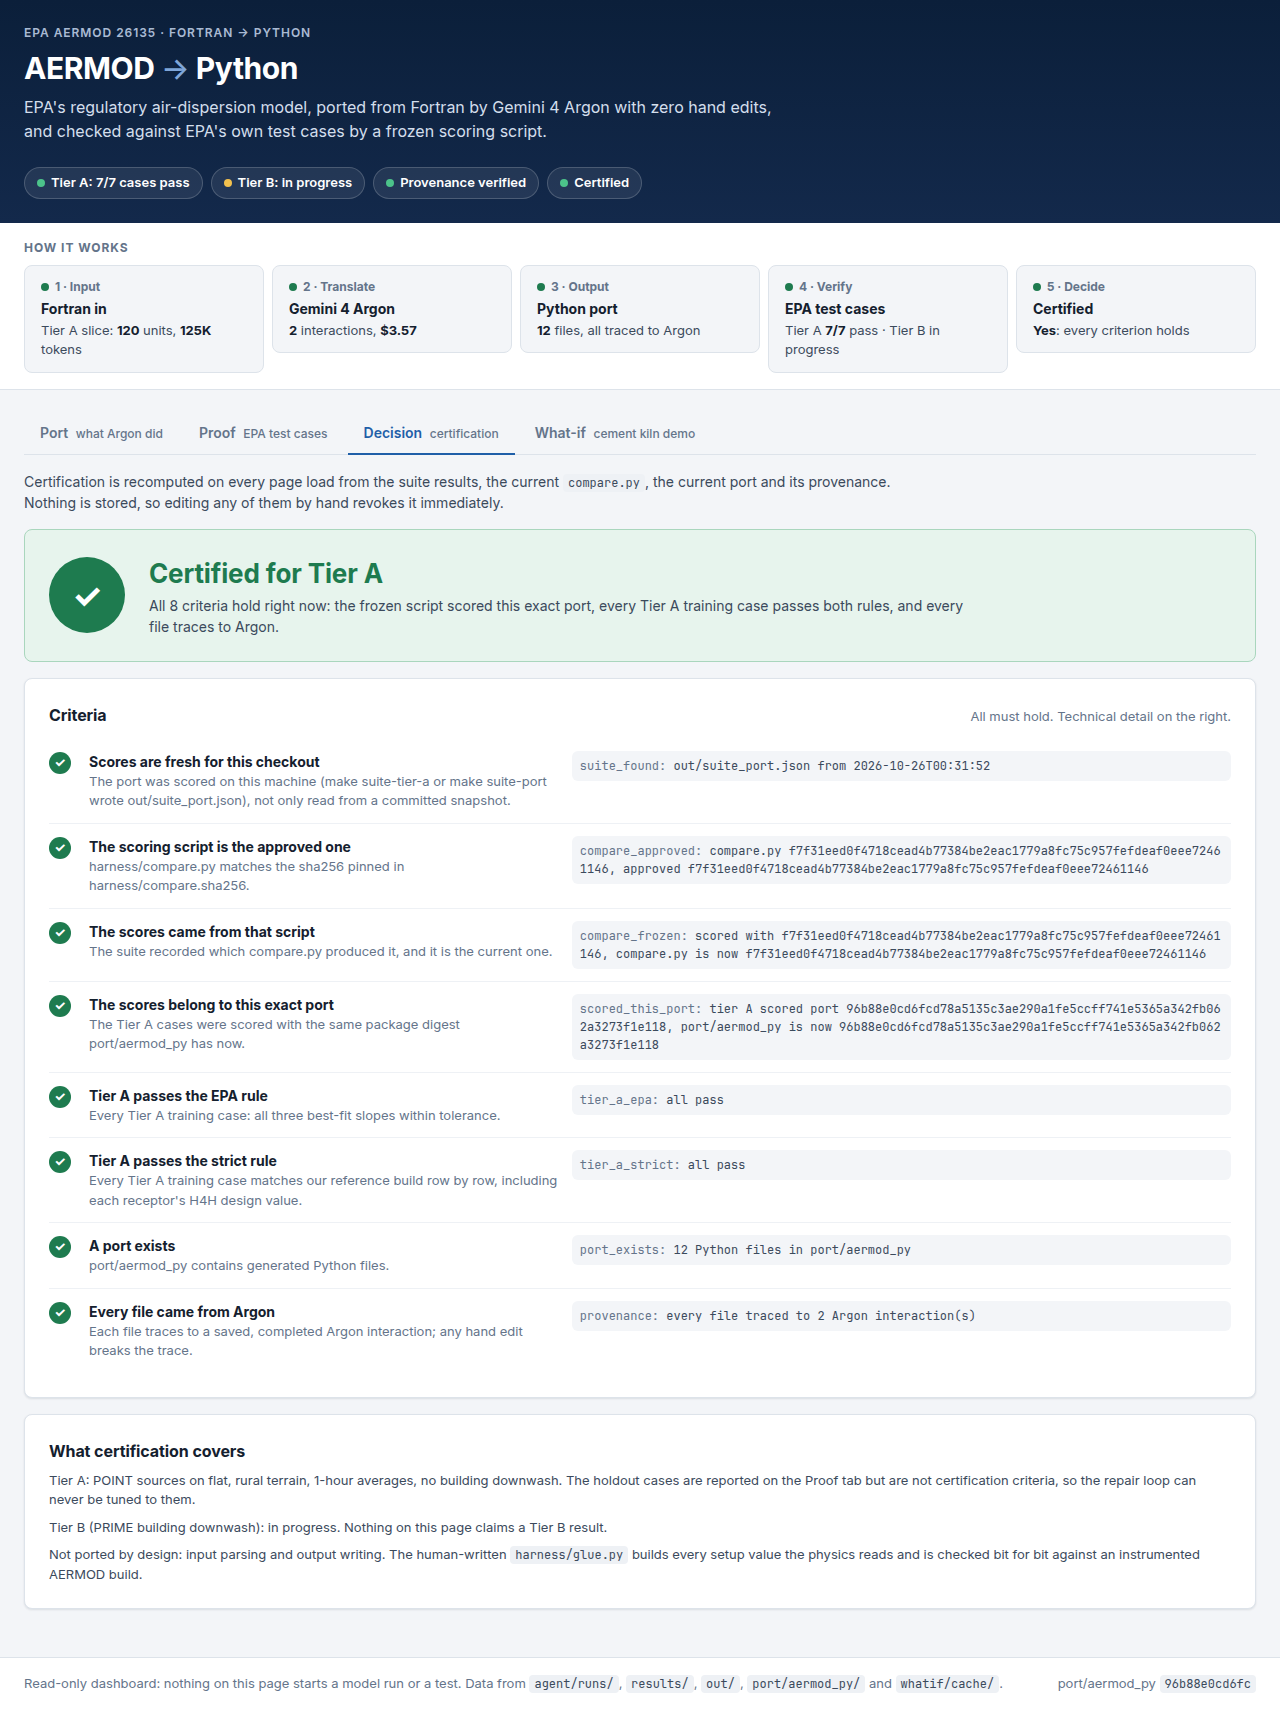
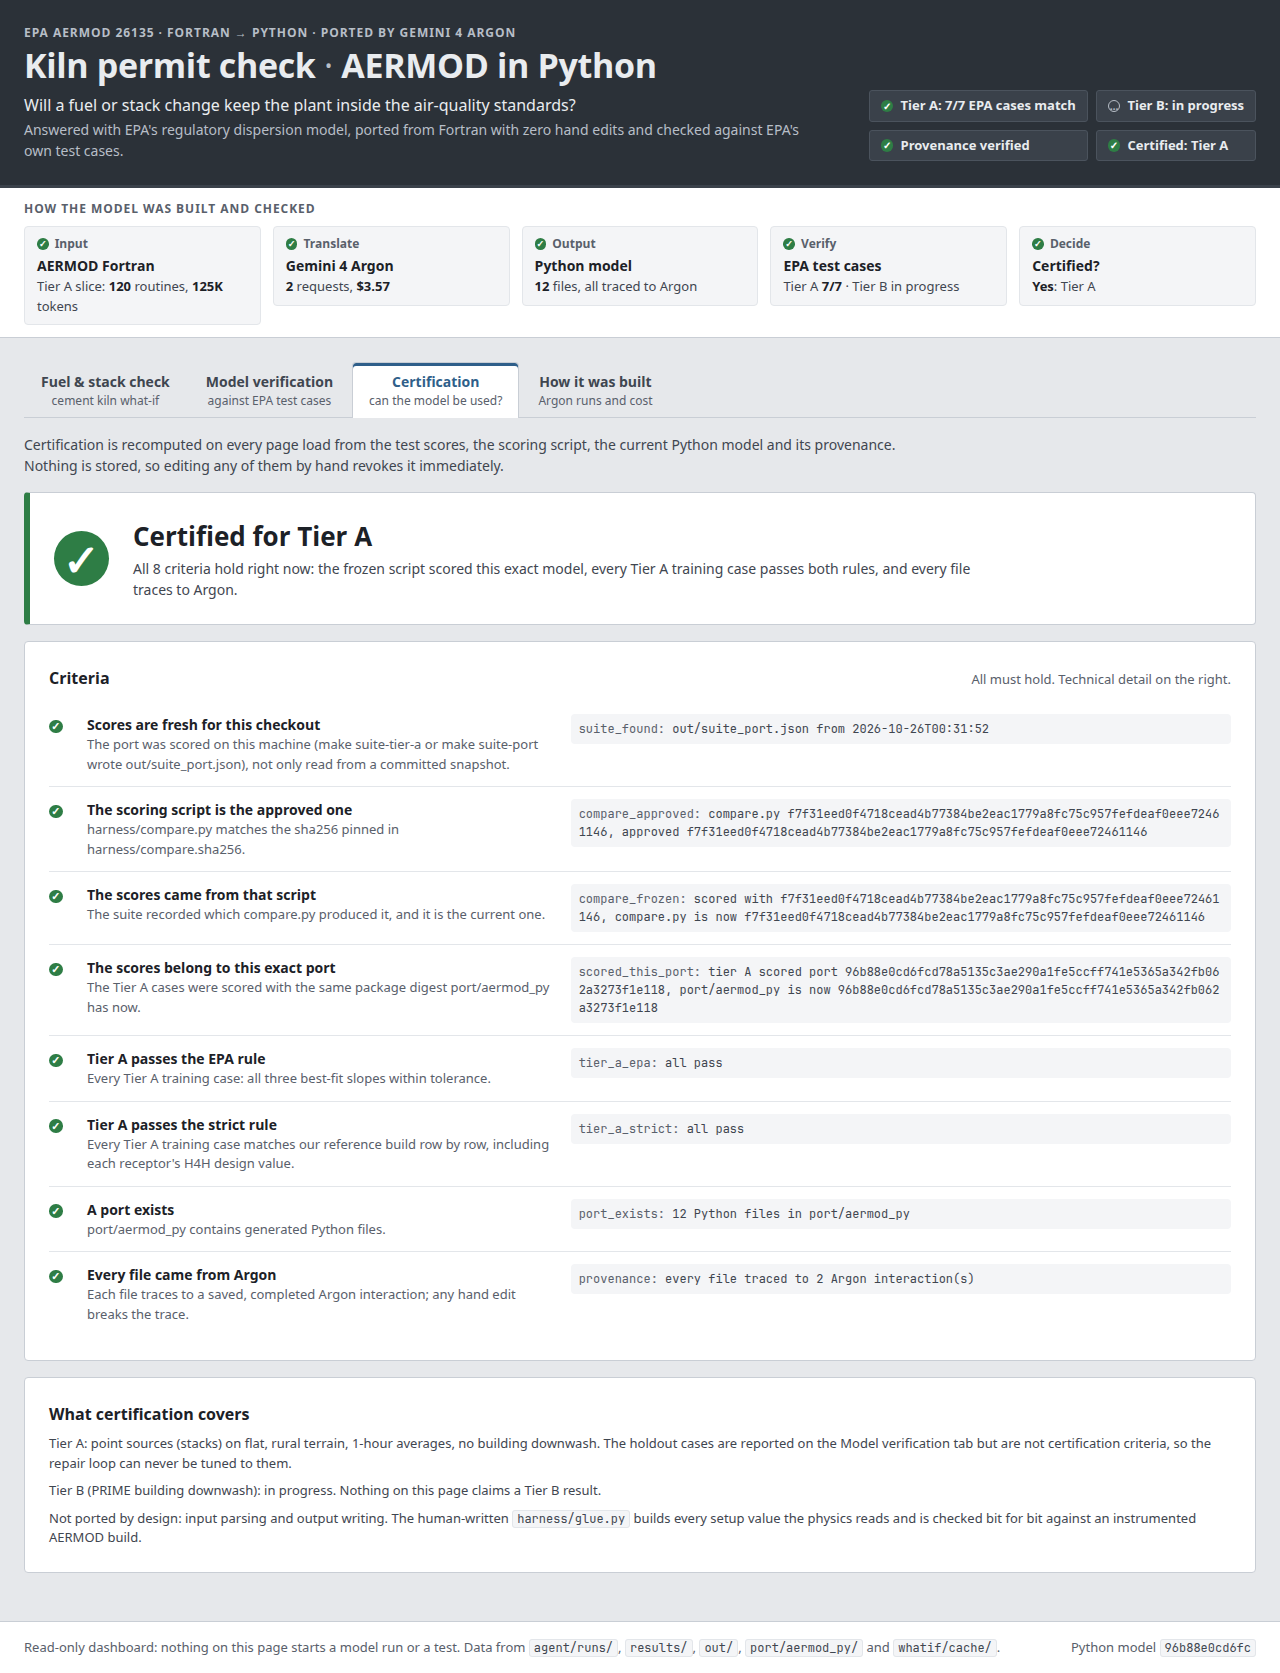
docs: match README and screenshots to the redesigned dashboard

diff --git a/README.md b/README.md
@@ -2,7 +2,7 @@
 
 EPA's regulatory air-dispersion model (AERMOD 26135, Fortran) ported to Python by Gemini 4 Argon with **zero hand edits**, and verified against **EPA's own test cases** by a frozen, strict scoring script.
 
-![Proof tab: every EPA test case scored by the frozen compare.py](docs/screenshots/proof.png)
+![Fuel & stack check: baseline and proposed fuel mix as % of the 1-hour SO2 NAAQS, with pass / near-limit / exceeds verdicts](docs/screenshots/whatif.png)
 
 ## Why this matters
 
@@ -69,7 +69,7 @@ flowchart LR
     CMP -- "divergence on a training case" --> REPAIR["repair loop<br/>Argon patch, kept only if nothing regresses"]
     REPAIR --> SPLIT
     SPLIT --> VERIFY["split.py --verify<br/>every file traced to a recorded Argon reply"]
-    CMP -- "all Tier A cases pass" --> CERT(["Decision: certified"])
+    CMP -- "all Tier A cases pass" --> CERT(["Certification: certified"])
     VERIFY --> CERT
 ```
 
@@ -86,7 +86,7 @@ flowchart LR
 - **H4H ("high fourth-high").** At each receptor, the 4th-highest daily maximum 1-hour concentration in a year: the design value regulators compare with the 1-hour SO2 standard (`pyaermod.design_values`).
 - **Holdout.** `testpm10_stack2` and `TESTPM10` are never shown to the repair loop, so passing them is evidence the port generalises rather than being tuned. `testpm10_stack2` needs no downwash and tests Tier A; `TESTPM10` has PRIME building data and tests Tier B.
 - **Provenance.** `split.py` writes each file Argon produces into `port/aermod_py` and records its sha256 in `files.json` next to the saved reply. `split.py --verify` re-splits every recorded reply and fails unless each file is byte-identical to one, and that reply's `reply.json` records a completed Argon interaction. `port/aermod_py/README.md` is the only human-owned file there.
-- **Certification** (the Decision tab, recomputed on every load): the approved `compare.py` scored *this exact* port version on this machine, every Tier A training case passes both rules, and provenance is clean.
+- **Certification** (the Certification tab, recomputed on every load): the approved `compare.py` scored *this exact* port version on this machine, every Tier A training case passes both rules, and provenance is clean. Tier B joins the certified scope automatically once every Tier B case passes in the same scoring of the same port; nothing is hard-coded.
 
 ## Quickstart
 
@@ -103,7 +103,7 @@ make test-fast      # unit tests; tests that need the EPA download skip with a r
 make demo           # dashboard on http://127.0.0.1:8000 (Ctrl-C to stop)
 ```
 
-`make demo` alone is enough for a live demo: it installs if needed, runs the provenance check and serves the dashboard from the committed results. It runs offline and loads nothing from a CDN. Until you score the port on your machine, the Decision tab says "not yet certified here".
+`make demo` alone is enough for a live demo: it installs if needed, runs the provenance check and serves the dashboard from the committed results. It runs offline and loads nothing from a CDN. It opens on the Fuel & stack check. Until you score the port on your machine, the Certification tab says "not yet certified here".
 
 **Reproduce the scores** (downloads about 10 MB from EPA, builds AERMOD with gfortran, then runs the Python port on every Tier A case; the 5-year holdout takes a few minutes):
 
@@ -111,7 +111,7 @@ make demo           # dashboard on http://127.0.0.1:8000 (Ctrl-C to stop)
 make ref            # fetch EPA source + test cases (checksummed), build ref/aermod and ref/aermod_dump
 make refs           # run every case through ref/aermod: the oracles in out/ref
 make suite-tier-a   # run the port on the Tier A cases + Tier A holdout, score into out/suite_port.json
-make demo           # reload: the Decision tab now certifies the port
+make demo           # reload: the Certification tab now certifies the port
 ```
 
 `make suite-port` runs and scores every case, Tier B included. While Tier B is in progress its PRIME cases fail on the Tier A port, so that target exits non-zero; the dashboard labels those cases "in progress". For the full test suite: `make dumps debug-refs && make test`.
@@ -131,16 +131,18 @@ make readme                                  # refresh the results block above
 
 | Tab | Shows | Read from |
 |---|---|---|
-| Port | Argon interactions, tokens and cost per run; Fortran in scope; files each reply wrote; repair decisions; git history of the port | `agent/runs/`, `results/tier_*.md`, `context/tokens.json` |
-| Proof | Both rules in plain English, best-fit slope per case, per-case scores by tier, the frozen digest, every file's provenance | `out/suite_port.json`, else `results/tier_*.md`; `harness/compare.py`; `split.trace` |
-| Decision | Certified or not, with each criterion and why | all of the above, recomputed |
-| What-if | The cement-kiln scenario below | `whatif/kiln.toml`, `whatif/cache/` |
+| Fuel & stack check | The cement-kiln what-if below: a verdict card per scenario (% of the NAAQS, pass / near limit / exceeds), gauges against the standard line, the plume footprint | `whatif/kiln.toml`, `whatif/cache/` |
+| Model verification | Per EPA test case, in plain terms (same concentrations, same design value at every receptor), with slope, p99 and H4H one click down under "Technical detail"; the frozen digest; every file's provenance | `out/suite_port.json`, else `results/tier_*.md`; `harness/compare.py`; `split.trace` |
+| Certification | Certified or not, for which tiers, with each criterion and why | all of the above, recomputed |
+| How it was built | Argon requests, tokens and cost per run; Fortran in scope; files each reply wrote; repair decisions; git history of the port | `agent/runs/`, `results/tier_*.md`, `context/tokens.json` |
+
+The look follows ISA-101 high-performance HMI practice: neutral greys, one steel blue for controls, and colour only for status. Green means within the limit or pass, amber means at or above 80% of the standard (a screening margin chosen for this dashboard, not a regulatory threshold), and red means exceeds or fails. Every status colour comes with an icon and a text label, so nothing depends on colour alone. Emission rates show g/s and lb/hr.
 
 Tier B shows "in progress" until every Tier B case passes in `results/tier_B.md` or `out/suite_port.json`; it is never shown as a result before then.
 
-| Port | Decision | What-if |
+| Model verification | Certification | How it was built |
 |---|---|---|
-| ![Port tab](docs/screenshots/port.png) | ![Decision tab](docs/screenshots/decision.png) | ![What-if tab](docs/screenshots/whatif.png) |
+| ![Model verification tab](docs/screenshots/proof.png) | ![Certification tab](docs/screenshots/decision.png) | ![How it was built tab](docs/screenshots/port.png) |
 
 ## Kiln what-if demo
 
@@ -148,7 +150,7 @@ A cement plant wants to burn part of its kiln fuel as alternative fuels (tyres, 
 
 - **Real:** the dispersion, computed by the Argon-ported AERMOD (`port/aermod_py`) for every stack in the grid at 1 g/s and cached in `whatif/cache/` with the port's sha256; a full year of met from the Tier A EPA case HRDOW_STACK1; the NAAQS values and forms from 40 CFR part 50. The statistics match `ref/aermod`'s own outputs on the same deck (`tests/test_whatif.py`).
 - **Illustrative:** stack defaults, fuel-mix emission factors, emission rates and background concentrations. All are invented example values in one editable file, `whatif/kiln.toml`.
-- **Guardrail:** a building near the stack, an urban site or complex terrain is outside Tier A, so the demo shows "not certified for this scenario" instead of a number.
+- **Guardrail:** a building near the stack, an urban site or complex terrain is outside what the demo precomputes (one stack, flat rural terrain, no buildings), so the card shows "outside scope" instead of a number.
 - `make whatif` recomputes the cache by running every stack through the port (slow; only needed after changing the grid or the port).
 
 ## Limitations and scope
